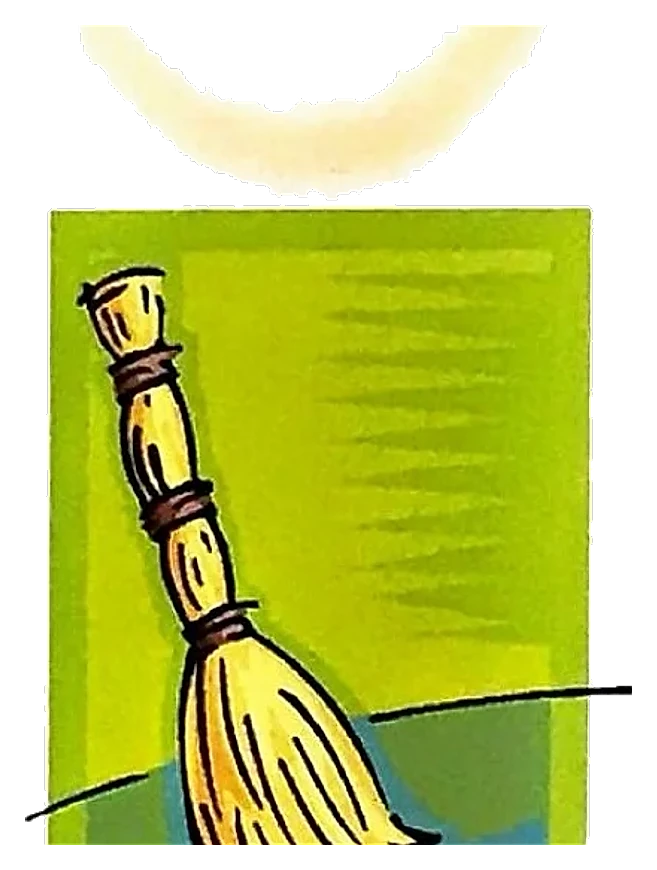
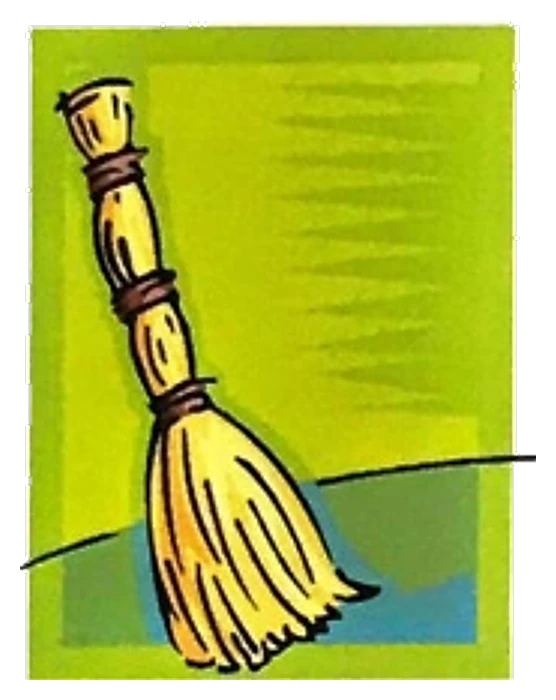
fix: re-crop escoba from the real color flipchart source; close the last art lead
The 62-page teacher flipchart — the one color source the art backlog had
left unsearched — has now been scanned page by page.

escoba FIXED. Found in real color on teacher-page-03.jpg ('Las hermanitas
vocales'), the labeled cell under the e. The old crop came from
e-page-10.jpg, a grayscale workbook exercise page — the same root cause
already documented for iglu. That is why it QA-failed for 'background
contamination': the flat lime-green rectangle it was penalised for is
actually the illustration's own printed backing panel, plainly visible in
the color source. Re-cropped tight to that panel, run through
clean-art.mjs like every other faithful asset, wired to both cells
(page 3 vowel-match-all, page 10 picture-grid), QA flipped to PASS, and
verified rendering in the running app. The superseded original is
preserved at _needs-recrop/escoba.webp.

Also corrects how the gap was being counted. A naive read of
page-layouts.json suggests ~498 of 700 caption cells lack art; that is
wrong, because ~480 of them are syllable-match cells — text exercises
whose schema has no illustrationSrc field at all. The real gap was 18
cells across 7 words, now 16 cells across 6.

The remaining 6 (abeja, aguja, remolino, abrigo, oruga, globo) appear as
no labeled vocab cell on any of the 62 pages, so they have no known color
source and stay honestly pendiente. Deliberately not used: the decorative
bees in the p60 Zz header — passing one illustration off as the book's
[…]

diff --git a/docs/STATUS.md b/docs/STATUS.md
@@ -75,11 +75,13 @@ Brutally honest, plain language.
 - **English (EN) language toggle** — exists but only partially translates the
   UI, leaving mixed Spanish/English screens (already filed as issue #162).
   This also sits oddly against the AGENTS.md rule "no English in student UI."
-- **Illustration coverage** — measured 2026-07-25: **498 of 700** caption
-  cells (71%) still show "pendiente"; 135 faithful crops exist. `abrigo`,
-  `aguja`, `remolino` have located source but it is grayscale and would need
-  coloring, which the art contract bans; `oruga`/`globo` have no located
-  source. See KNOWN ISSUES for the full numbers.
+- **Illustration coverage** — down to **16 cells across 6 words**
+  (`abeja`, `aguja`, `remolino`, `abrigo`, `oruga`, `globo`). `escoba` was
+  fixed 2026-07-25 from the teacher flipchart. All 6 remaining words are
+  confirmed to have no color source anywhere in the scanned material, so they
+  stay honestly "pendiente". An earlier "498 of 700 cells / 71%" figure in
+  this file was **wrong** — it counted `syllable-match` text cells, which have
+  no illustration slot at all. See KNOWN ISSUES and `ART_BACKLOG.md`.
 - **Welcome/landing screen** — a version shipped and was rejected by the
   owner; a redo brief exists but has not been executed.
 
@@ -241,19 +243,21 @@ The rest is owner-decision work, listed in `docs/DECISIONS.md`.
 
 ## KNOWN ISSUES
 
-- **Illustration coverage is the biggest remaining product gap.** Measured
-  2026-07-25 against `src/data/page-layouts.json`: **498 of 700** caption/word
-  cells (**71%**) carry no `illustrationSrc` and therefore render the honest
-  "pendiente" placeholder. Only **135** faithful crops exist in
-  `public/cartilla/art/faithful/manifest.json`, against **94** source scan
-  files across 26 letter folders in
-  `public/cartilla/images/source-original/`. This is art-extraction work
-  (Antigravity's lane per AGENTS.md), not a wiring fix.
-- **`abrigo` / `aguja` / `remolino` are blocked, not pending-wiring.** The
-  located source art is grayscale line art and would need *coloring* to match
-  the book's colour cells — but the art contract bans colour changes and
-  invented art outright. They cannot be completed without either a genuine
-  colour source or an explicit owner decision to relax that rule.
+- **Illustration coverage — now down to 16 cells / 6 words, all confirmed
+  sourceless.** (Corrects an earlier figure in this file: a first pass counted
+  "498 of 700 caption cells missing art / 71%". That count was wrong. ~480 of
+  those are `syllable-match` cells — pure text exercises whose schema has no
+  `illustrationSrc` field at all, so they are not a gap.) The real gap was
+  **18 cells across 7 distinct words**; `escoba` was fixed 2026-07-25, leaving
+  **16 cells / 6 words**: `abeja` (7 cells), `aguja` (3), `remolino` (2),
+  `abrigo` (2), `oruga` (1), `globo` (1). The 62-page teacher flipchart — the
+  last unsearched color source — has now been scanned page by page, and none
+  of these 6 appears as a labeled vocab cell anywhere. They have **no known
+  color source in the scanned material** and stay honestly "pendiente" unless
+  new scans are added. See `ART_BACKLOG.md` 2026-07-25 for the full record.
+- **`abrigo` / `aguja` / `remolino` are additionally blocked by the coloring
+  ban.** Their only known source is grayscale line art, and coloring it would
+  be inventing color — banned by the art contract outright.
 - **24 lint warnings remain (0 errors — `pnpm lint` exits green).** 23 are
   `react-refresh/only-export-components` spread across 17 files (a hot-reload
   DX hint with no runtime effect; clearing them means splitting 17 working

diff --git a/ART_BACKLOG.md b/ART_BACKLOG.md
@@ -1,5 +1,57 @@
 # Art backlog — current, authoritative
 
+## 2026-07-25 — the 62-page teacher flipchart has now been searched (closes the last open lead); escoba FIXED, 6 words confirmed genuinely absent
+
+The 2026-07-20 entry below left one lead open: "Only the 62-page teacher
+flipchart (`public/cartilla/images/teacher-flipchart/`) remains unchecked as a
+possible source ... not done this pass." **That scan is now done** — all 62
+pages reviewed visually, page by page, via contact sheets.
+
+First, a correction to how the gap was being counted. The real illustration
+gap is **18 cells across only 7 distinct words**, not the ~498 "missing
+caption cells" a naive count of `page-layouts.json` suggests. The other ~480
+are `syllable-match` word cells — pure text exercises ("Presiona la sílaba
+correspondiente") whose schema has no `illustrationSrc` field at all. That
+matches the 2026-07-20 finding below and is not a gap. The 7 words are:
+`abeja` (7 cells), `aguja` (3), `remolino` (2), `abrigo` (2), `escoba` (2),
+`oruga` (1), `globo` (1).
+
+**`escoba` — FIXED.** Found in real color on `teacher-page-03.jpg` ("Las
+hermanitas vocales"), the labeled `escoba` cell under the **e**. The old crop
+was taken from `e-page-10.jpg`, a *grayscale workbook exercise* page — the
+exact same root cause already documented for `iglu` ("old sourceFlipchartPage
+was a grayscale trace-line exercise page, not the colored vocab grid"). That
+is why it QA-failed for "background chunk contamination": the flat lime-green
+rectangle it was penalised for **is part of the printed illustration**, an
+intentional backing panel, plainly visible in the color source. Re-cropped
+tight to that panel (`cropBox [478, 744, 172, 220]`), run through
+`clean-art.mjs` like every other faithful asset, wired to both cells
+(`pages.3` vowel-match-all "e" row, `pages.10` picture-grid), QA flipped to
+PASS, and verified rendering in the running app. Superseded original is
+preserved at `_needs-recrop/escoba.webp`.
+
+**`abeja`, `aguja`, `remolino`, `abrigo`, `oruga`, `globo` — confirmed
+genuinely absent from the flipchart.** None appears as a labeled vocab cell on
+any of the 62 pages. The vowel vocab pages carry a different word set
+(p05 `a`: abanico/anillo/araña/ala/aro/Ana; p06 `e`:
+elefante/espejo/Ema/estrella/erizo/escalera; p07 `i`; p08 `u`; p04 `o`) — no
+bee, needle, swirl, coat, caterpillar or balloon among them.
+
+One near-miss worth recording so nobody re-opens it as a find: **p60 (`Zz`)
+has decorative bees** in its header art for the "zzz" sound. It was *not*
+used for `abeja`. It is a different illustration from the book's labeled
+abeja cell (the workbook's is a specific cartoon bee with a face and shoes on
+`a-page-5.jpg`), and passing one illustration off as another is
+misrepresentation, not a faithful crop. If the owner decides a generic-bee
+substitution is acceptable, that is a content decision to make explicitly —
+not something to slip in as an art fix.
+
+With the flipchart now searched, these 6 words have **no known color source
+anywhere in the scanned material**. They stay honestly "pendiente" unless new
+source scans are added. `abrigo`/`aguja`/`remolino` remain additionally
+blocked by the coloring ban (their only known source is grayscale line art,
+and coloring it would be inventing color).
+
 ## RESOLVED 2026-07-19 — the "no dog art in these lessons" conclusion below was wrong; a real perro illustration exists on rr-page-42
 The 2026-07-18 entry below only checked `rr-page-40.jpg` (the vocab-grid
 source, confirmed a mislabeled burro) and the two plain-text workbook pages

diff --git a/docs/DECISIONS.md b/docs/DECISIONS.md
@@ -214,3 +214,28 @@ DOCUMENTATION DUTY section of `AGENTS.md`).
   `abrigo`/`aguja`/`remolino` are **blocked**, not pending-wiring: their
   located source is grayscale and would need coloring, which the art contract
   bans outright. Verify bar green (typecheck, lint, 1091 tests, build).
+
+- **2026-07-25 — Art extraction reassigned to Claude by the owner; teacher
+  flipchart searched; `escoba` fixed.** The owner directed that art-extraction
+  work be done here rather than handed to Antigravity, superseding the
+  DIVISION OF LABOR note in AGENTS.md for this work. Findings, in order of
+  importance. (1) **The art gap was being mis-counted.** A naive count of
+  `page-layouts.json` suggests ~498 of 700 caption cells lack art; that is
+  wrong, because ~480 of them are `syllable-match` cells — pure text exercises
+  whose schema has no `illustrationSrc` field at all. The real gap was **18
+  cells across 7 distinct words**. (2) **The 62-page teacher flipchart, the
+  last unsearched color source (explicitly left open by the 2026-07-20
+  backlog entry), has now been scanned page by page.** (3) **`escoba` FIXED** —
+  found in real color on `teacher-page-03.jpg`, the labeled cell under the e.
+  Its old crop came from a *grayscale workbook* page, the same root cause
+  already documented for `iglu`; the "background contamination" it QA-failed
+  for is in fact the illustration's own printed green backing panel. Re-cropped
+  tight, run through `clean-art.mjs`, wired to both cells, QA flipped to PASS,
+  verified rendering in the app. (4) **The other 6 words are confirmed
+  sourceless** — no labeled vocab cell for `abeja`, `aguja`, `remolino`,
+  `abrigo`, `oruga` or `globo` on any of the 62 pages. Deliberately NOT used:
+  the decorative bees in the p60 `Zz` header, because passing one illustration
+  off as the book's labeled `abeja` cell is misrepresentation, not a faithful
+  crop — flagged for the owner as a content decision rather than slipped in as
+  an art fix. Verify bar green (typecheck, lint, 1091 tests, build, both
+  content and art-color validators; wired crops 101 -> 102).
